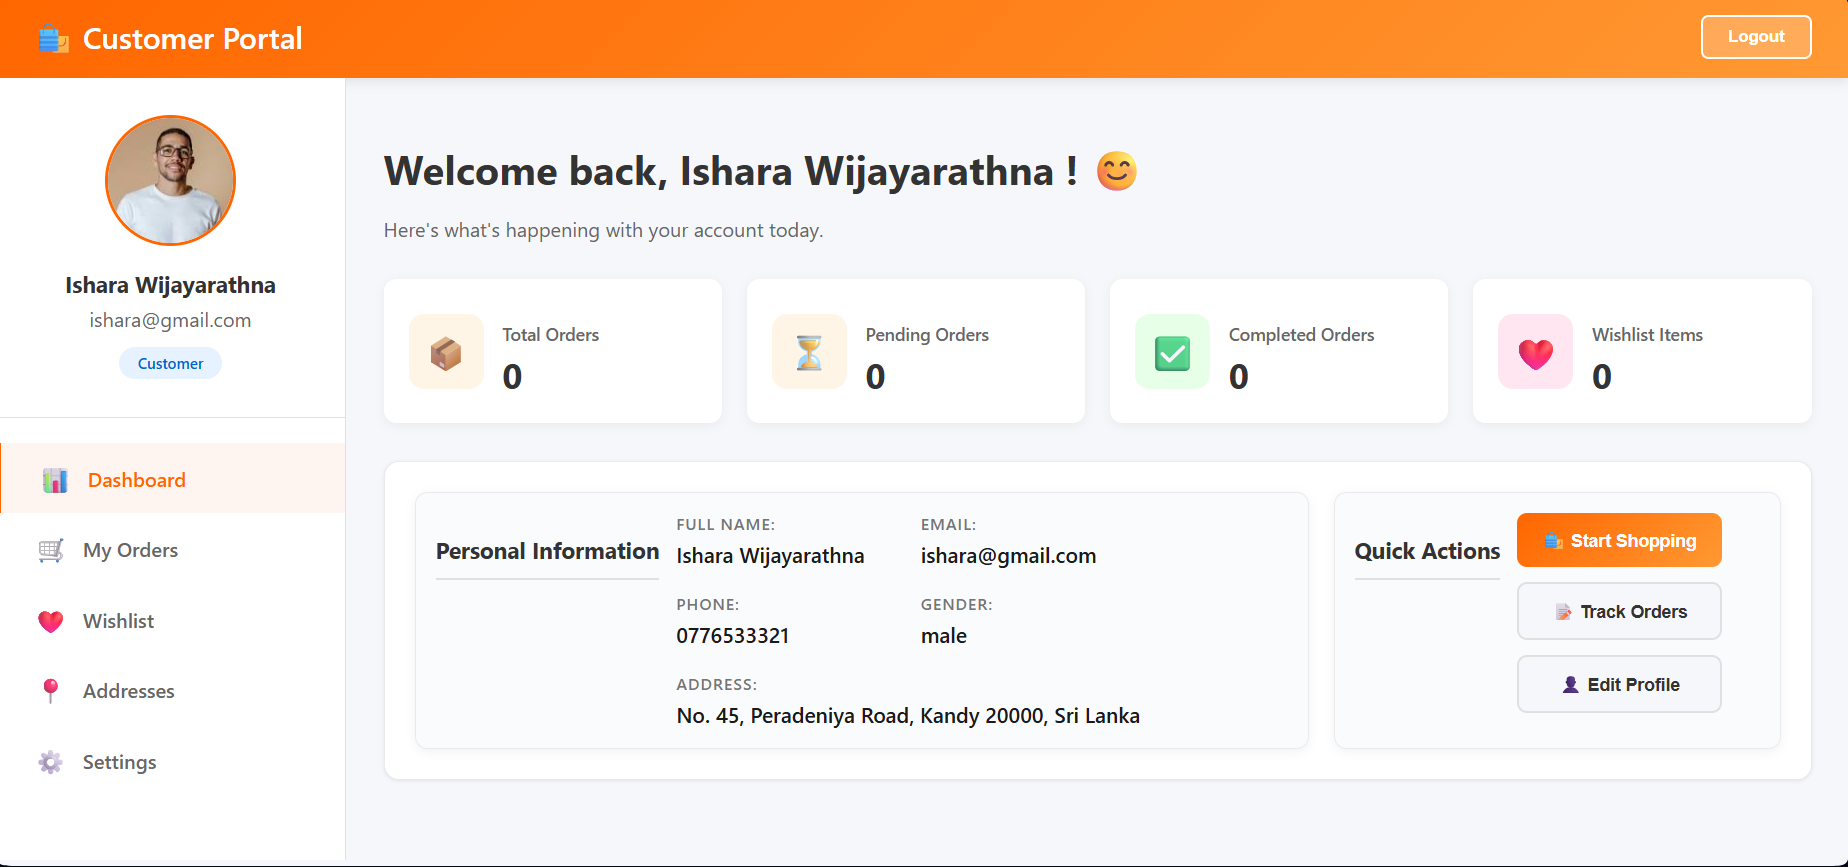
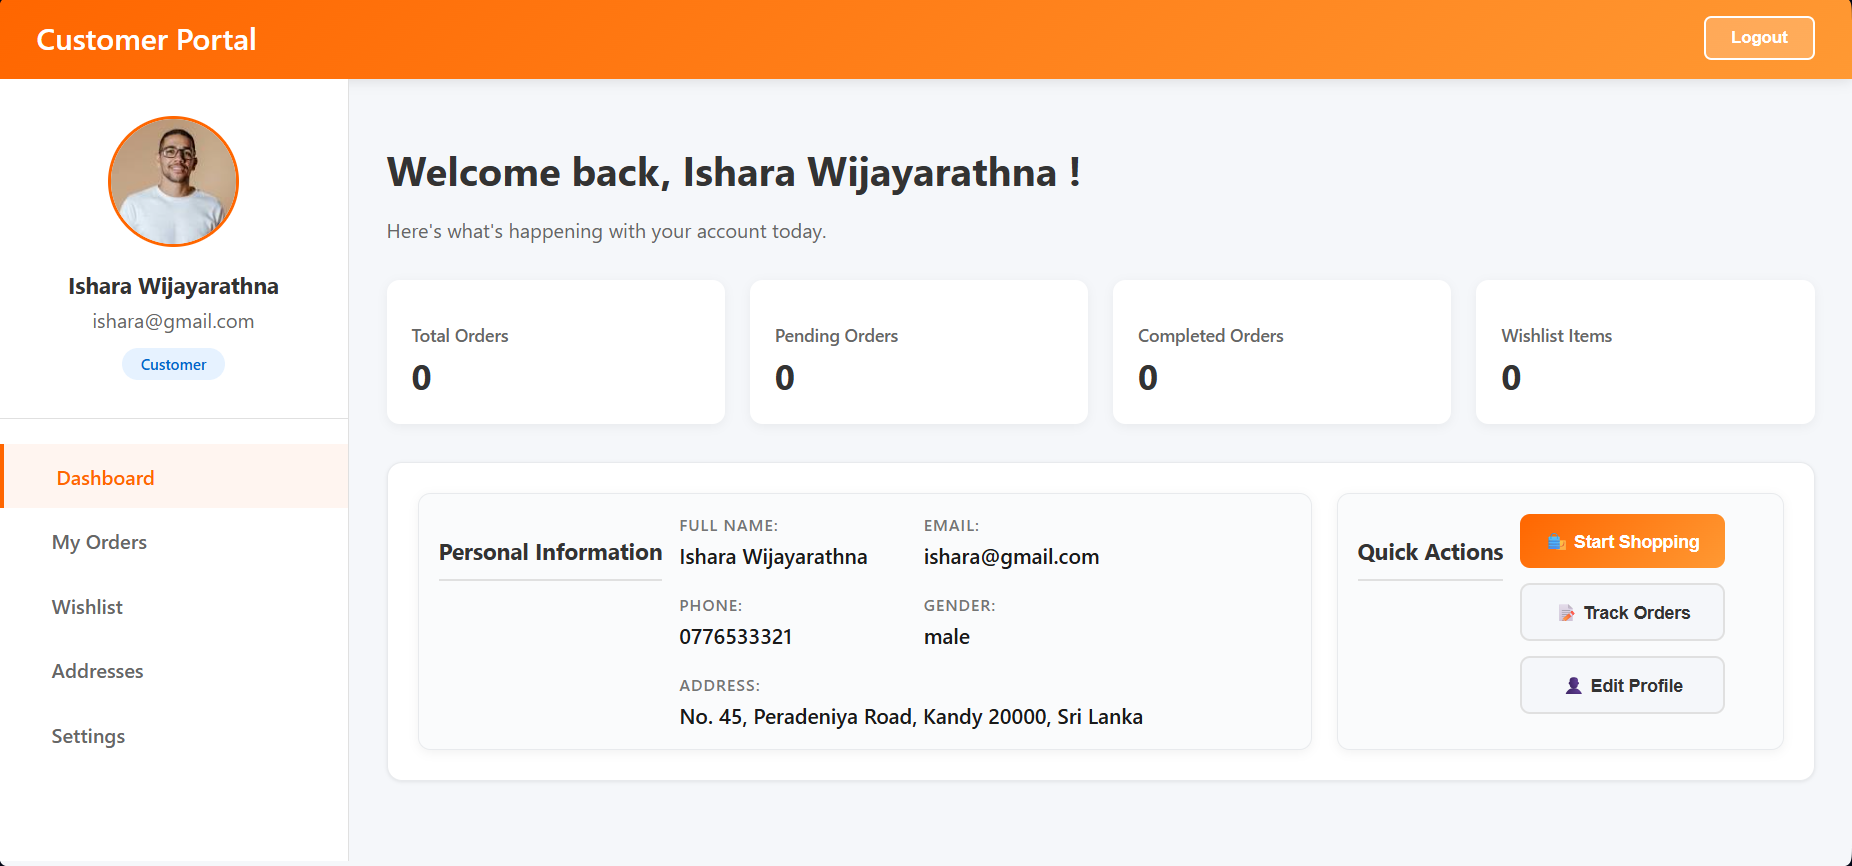
fix: Remove unnecessary emojis from Customer Dashboard for cleaner UI

diff --git a/frontend/src/pages/CustomerDashboard.js b/frontend/src/pages/CustomerDashboard.js
@@ -54,7 +54,7 @@ const CustomerDashboard = () => {
     <div className="customer-dashboard">
       <nav className="dashboard-nav">
         <div className="nav-brand">
-          <h2>🛍 Customer Portal</h2>
+          <h2> Customer Portal</h2>
         </div>
         <div className="nav-actions">
           <button onClick={handleLogout} className="logout-btn">
@@ -79,32 +79,32 @@ const CustomerDashboard = () => {
 
           <ul className="sidebar-menu">
             <li className="menu-item active">
-              <span>📊</span> Dashboard
+              <span></span> Dashboard
             </li>
             <li className="menu-item">
-              <span>🛒</span> My Orders
+              <span></span> My Orders
             </li>
             <li className="menu-item">
-              <span>❤</span> Wishlist
+              <span></span> Wishlist
             </li>
             <li className="menu-item">
-              <span>📍</span> Addresses
+              <span></span> Addresses
             </li>
             <li className="menu-item" onClick={handleSettings}>
-              <span>⚙</span> Settings
+              <span></span> Settings
             </li>
           </ul>
         </aside>
 
         <main className="dashboard-main">
           <div className="welcome-section">
-            <h1>Welcome back, {user.name}! 😊</h1>
+            <h1>Welcome back, {user.name}! </h1>
             <p>Here's what's happening with your account today.</p>
           </div>
 
           <div className="stats-grid">
             <div className="stat-card">
-              <div className="stat-icon orders-icon">📦</div>
+              
               <div className="stat-content">
                 <h3>Total Orders</h3>
                 <p className="stat-number">0</p>
@@ -112,7 +112,7 @@ const CustomerDashboard = () => {
             </div>
 
             <div className="stat-card">
-              <div className="stat-icon pending-icon">⏳</div>
+         
               <div className="stat-content">
                 <h3>Pending Orders</h3>
                 <p className="stat-number">0</p>
@@ -120,7 +120,7 @@ const CustomerDashboard = () => {
             </div>
 
             <div className="stat-card">
-              <div className="stat-icon completed-icon">✅</div>
+          
               <div className="stat-content">
                 <h3>Completed Orders</h3>
                 <p className="stat-number">0</p>
@@ -128,7 +128,7 @@ const CustomerDashboard = () => {
             </div>
 
             <div className="stat-card">
-              <div className="stat-icon wishlist-icon">❤</div>
+      
               <div className="stat-content">
                 <h3>Wishlist Items</h3>
                 <p className="stat-number">0</p>
